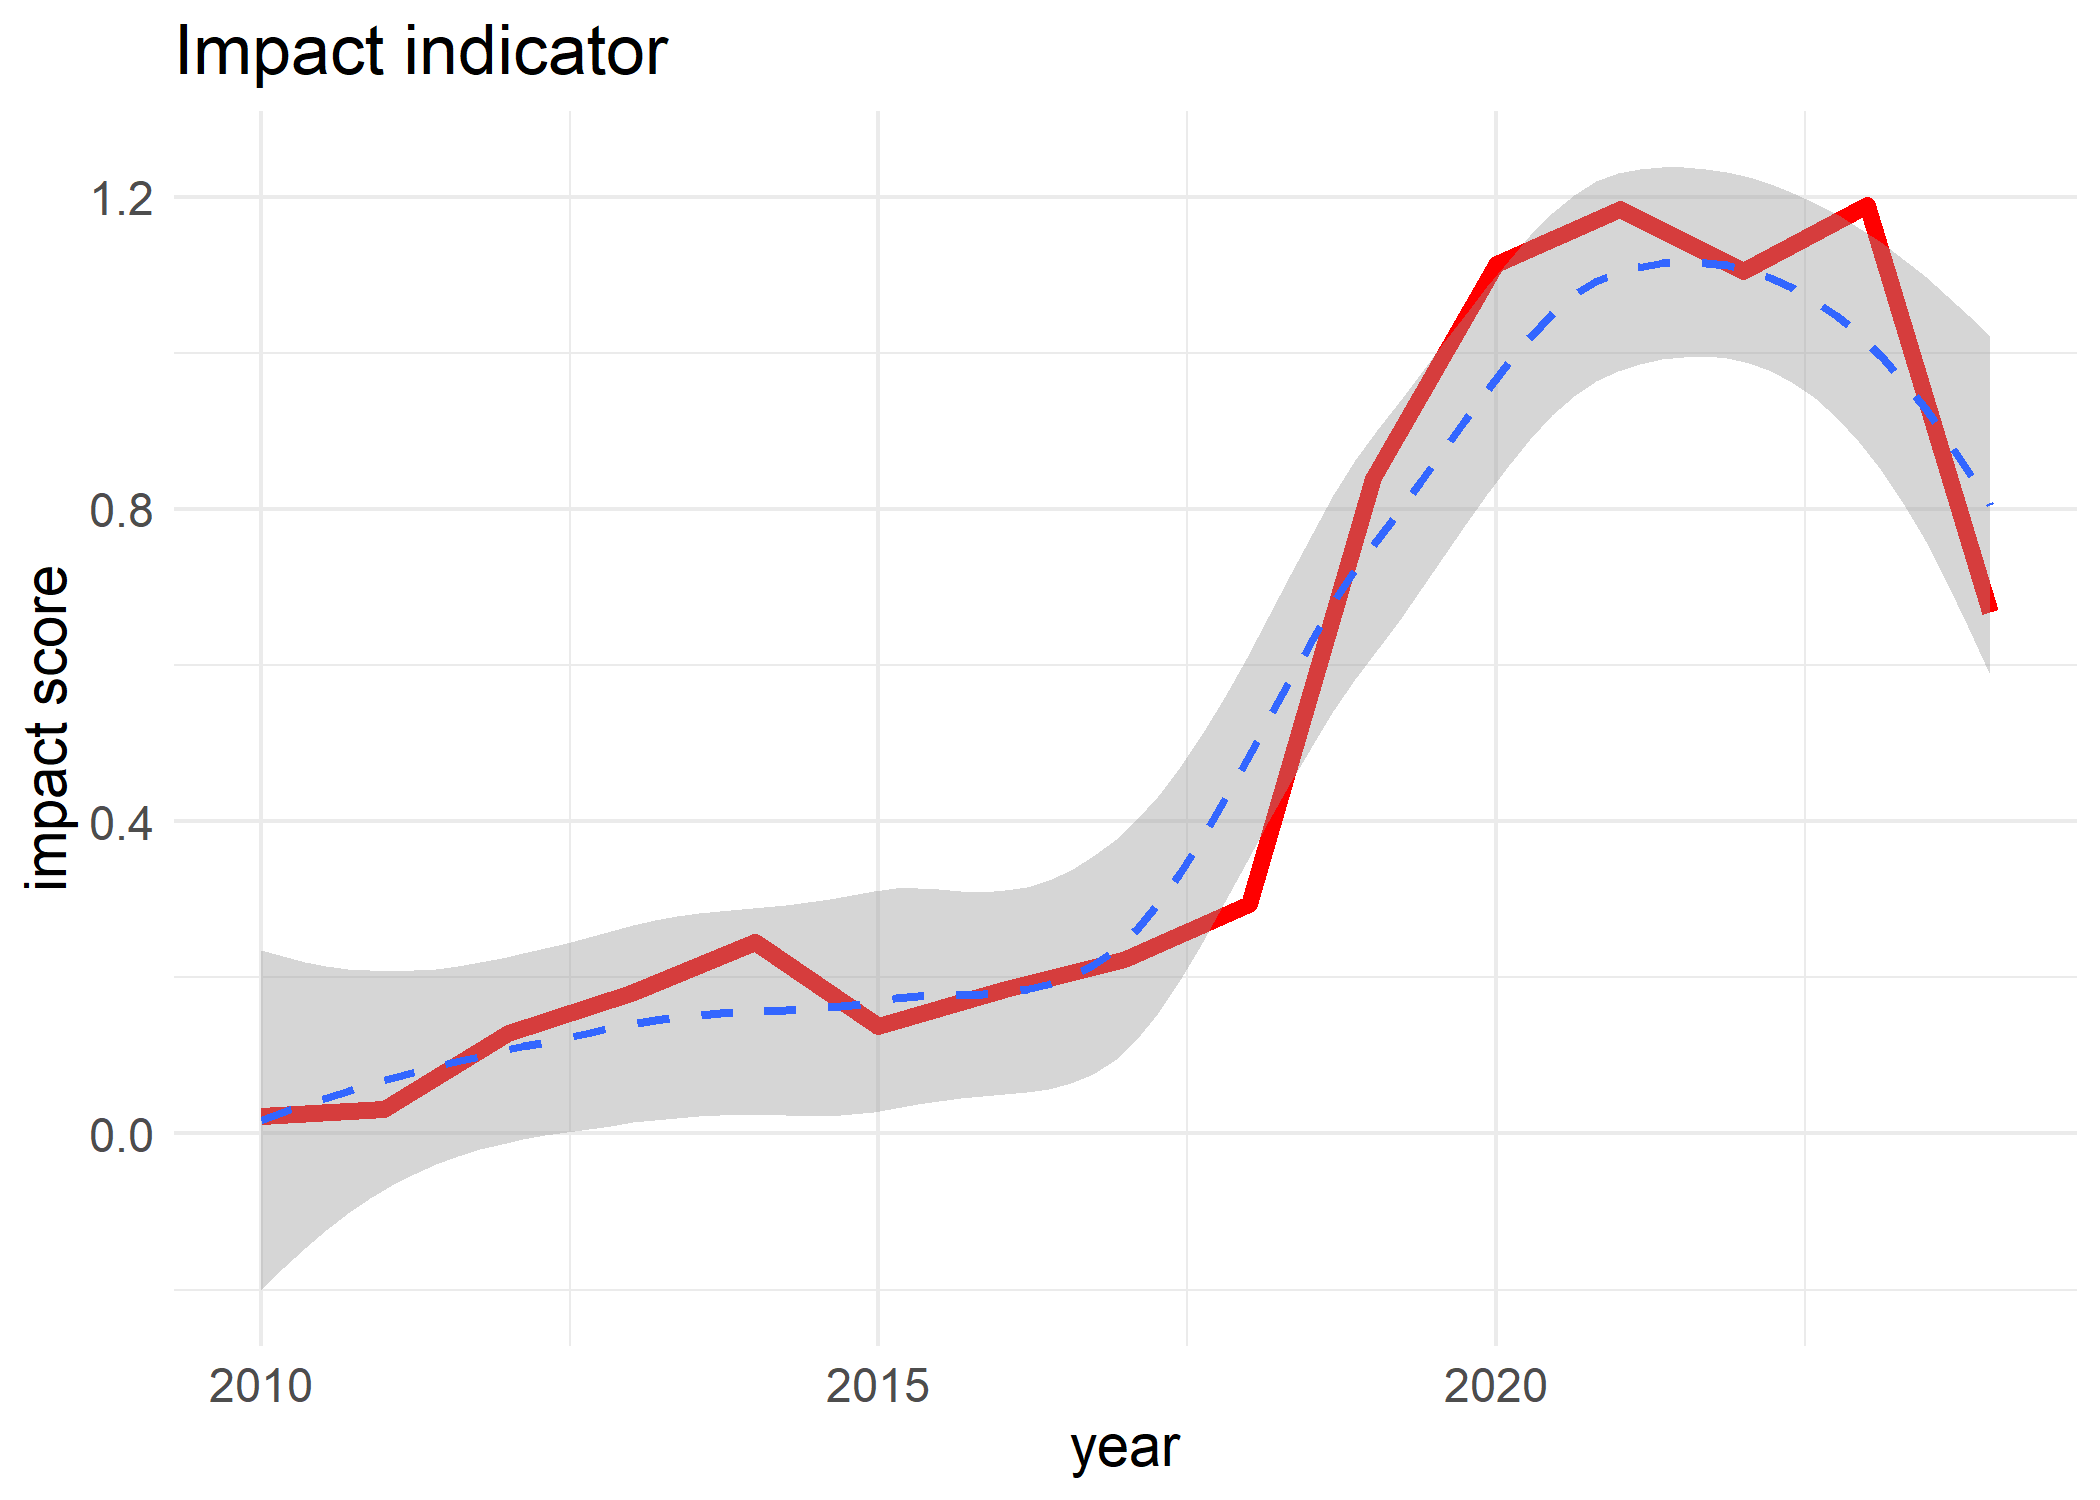
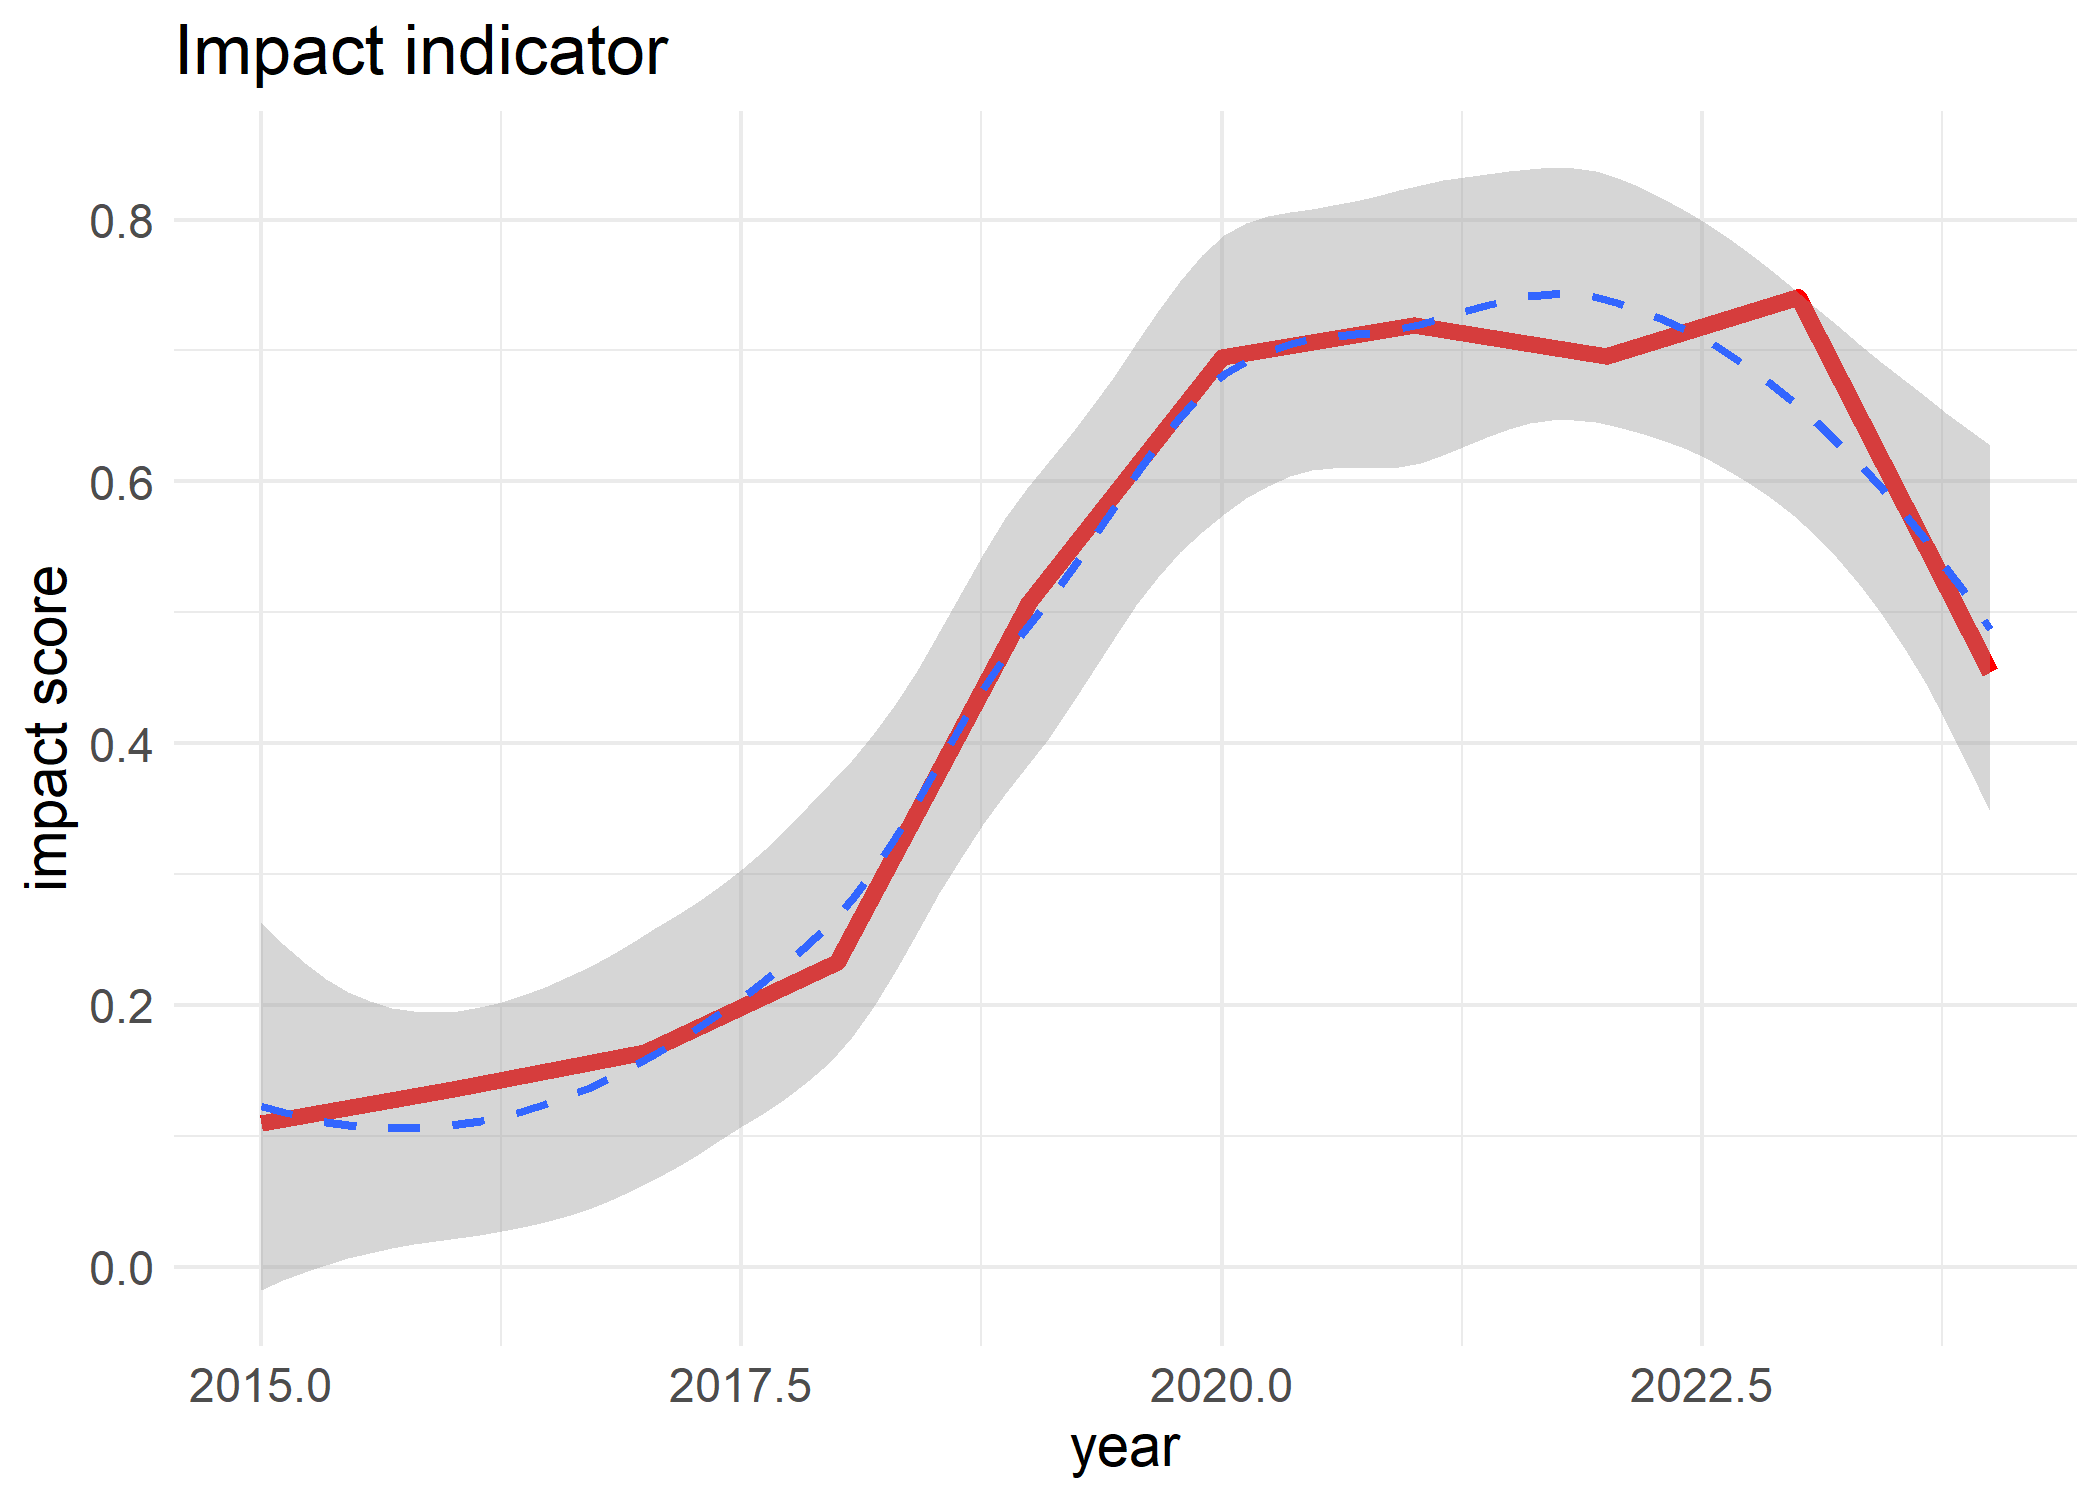
Update boots

diff --git a/README.md b/README.md
@@ -2,7 +2,7 @@ Code to calculate the impact indicator
 ================
 Mukhtar Yahaya, Sabrina Kumschick, Sandra MacFadyen, Pietro Landi, Cang
 Hui
-2024-11-29
+2025-02-03
 
 <!-- README.md is generated from README.Rmd. Please edit that file -->
 <!-- badges: start -->
@@ -58,19 +58,19 @@ taxa_Acacia<-readRDS("Data/taxa_Acacia.rds")
 acacia_cube<-taxa_cube(taxa=taxa_Acacia,
                     region=SA.sf,
                     res=0.25,
-                    first_year=2010)
+                    first_year=2015)
 
 acacia_cube$cube
 #> 
 #> Simulated data cube for calculating biodiversity indicators
 #> 
-#> Date Range: 2010 - 2024 
-#> Number of cells: 369 
+#> Date Range: 2015 - 2024 
+#> Number of cells: 365 
 #> Grid reference system: custom 
 #> Coordinate range:
 #> [1] "Coordinates not provided"
 #> 
-#> Total number of observations: 5559 
+#> Total number of observations: 5320 
 #> Number of species represented: 25 
 #> Number of families represented: Data not present 
 #> 
@@ -78,20 +78,20 @@ acacia_cube$cube
 #> 
 #> First 10 rows of data (use n = to show more):
 #> 
-#> # A tibble: 5,559 × 6
-#>    scientificName   taxonKey minCoordinateUncertaintyInMe…¹  year cellCode   obs
-#>    <chr>               <dbl>                          <dbl> <dbl>    <int> <dbl>
-#>  1 Acacia implexa    2979232                              1  2010      206     1
-#>  2 Acacia cyclops    2980425                            122  2010      668     1
-#>  3 Acacia saligna    2978552                              1  2010      206     1
-#>  4 Acacia pycnantha  2978604                              1  2010      206     1
-#>  5 Acacia mearnsii   2979775                            110  2010      215     1
-#>  6 Acacia mearnsii   2979775                              1  2010      215     1
-#>  7 Acacia mearnsii   2979775                              8  2010     1376     1
-#>  8 Acacia saligna    2978552                              1  2011      206     1
-#>  9 Acacia saligna    2978552                             15  2011     1312     1
-#> 10 Acacia mearnsii   2979775                              1  2011      230     1
-#> # ℹ 5,549 more rows
+#> # A tibble: 5,320 × 6
+#>    scientificName        taxonKey minCoordinateUncertaint…¹  year cellCode   obs
+#>    <chr>                    <dbl>                     <dbl> <dbl>    <int> <dbl>
+#>  1 Acacia melanoxylon     2979000                         1  2015      206     1
+#>  2 Acacia piligera        2978295                         1  2015      206     1
+#>  3 Acacia podalyriifolia  2979014                         1  2015      206     1
+#>  4 Acacia elata           2973176                         1  2015      206     1
+#>  5 Acacia longifolia      2978730                         1  2015      206     1
+#>  6 Acacia saligna         2978552                         1  2015      341     1
+#>  7 Acacia melanoxylon     2979000                         1  2015      341     1
+#>  8 Acacia cyclops         2980425                        56  2015      221     1
+#>  9 Acacia cyclops         2980425                        38  2015      164     1
+#> 10 Acacia mearnsii        2979775                         1  2015      229     1
+#> # ℹ 5,310 more rows
 #> # ℹ abbreviated name: ¹minCoordinateUncertaintyInMeters
 head(acacia_cube$coords)
 #>   siteID        X       Y
@@ -253,7 +253,7 @@ impact_value<-impact_indicator(cube=acacia_cube$cube,
                               col_species="scientific_name",
                               col_mechanism="impact_mechanism",
                               trans=1,
-                              type = "mean cumulative")
+                              type = "mean")
 
 ggplot(data = impact_value) +
   geom_line(aes(y = value, x = year),colour="red",
@@ -300,7 +300,7 @@ species_value %>%
     y = "impact score"
   )+
   theme(text=element_text(size=14))
-#> Warning: Removed 5 rows containing missing values or values outside the scale range
+#> Warning: Removed 3 rows containing missing values or values outside the scale range
 #> (`geom_line()`).
 ```
 
